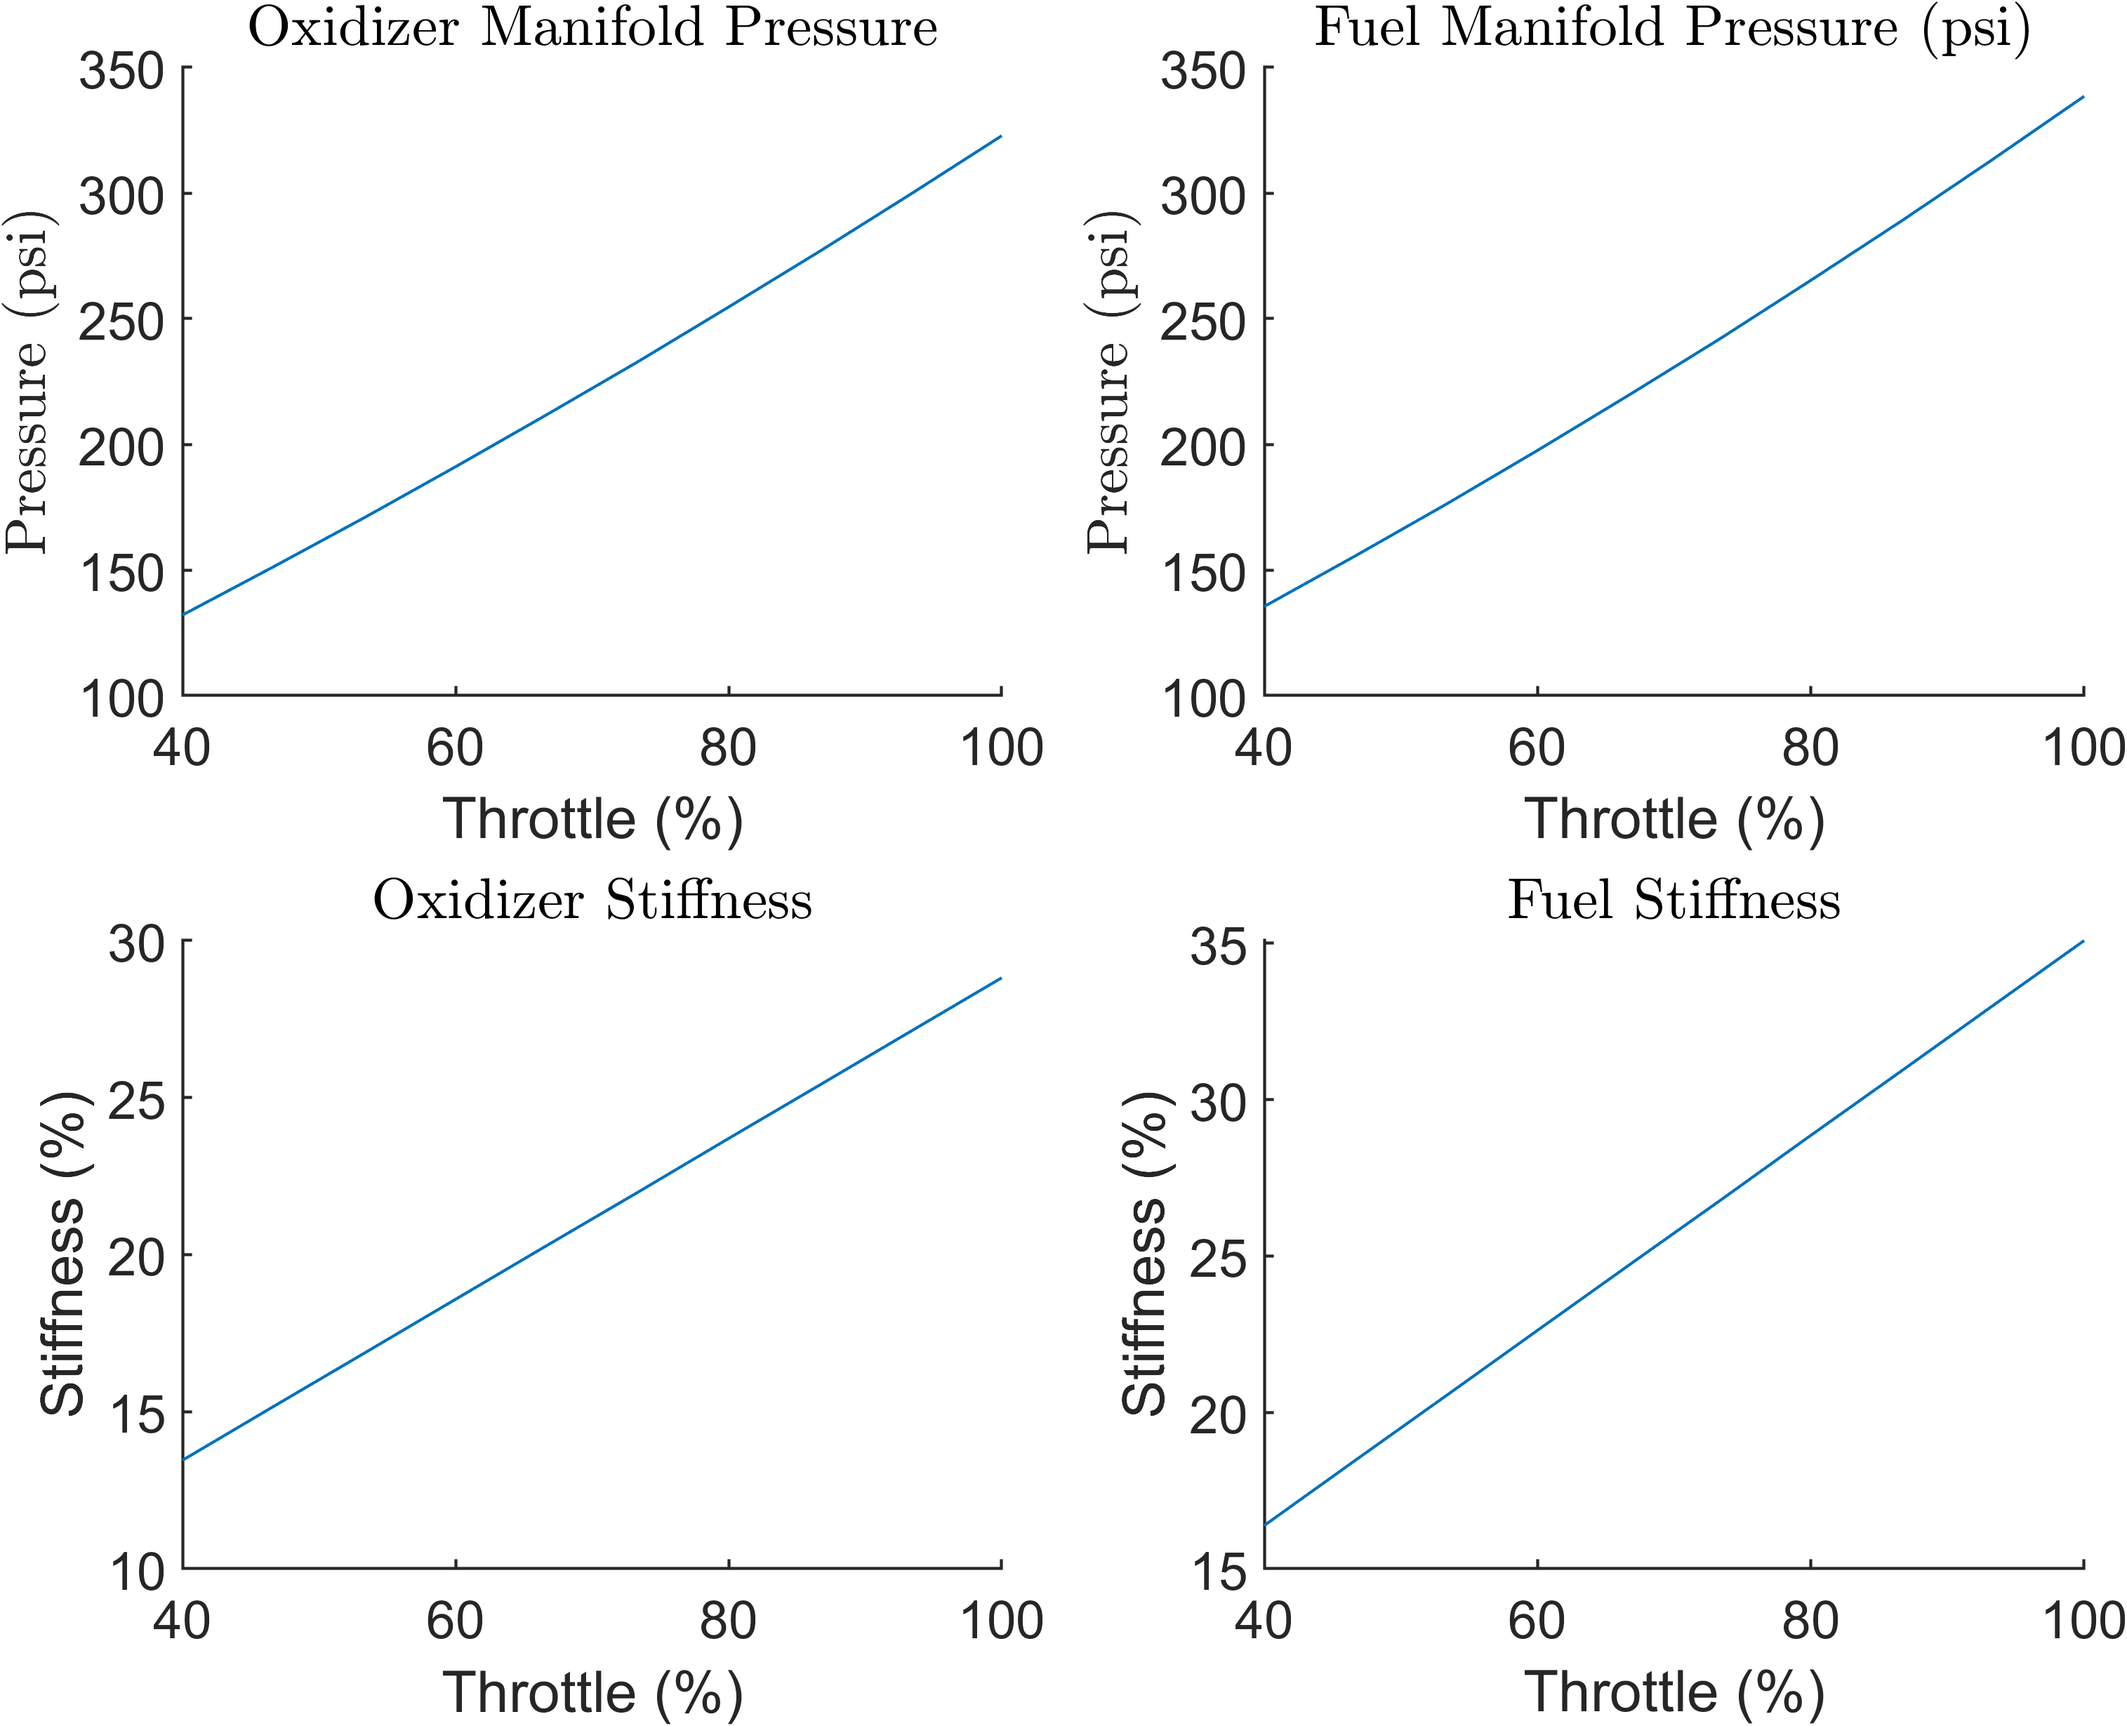
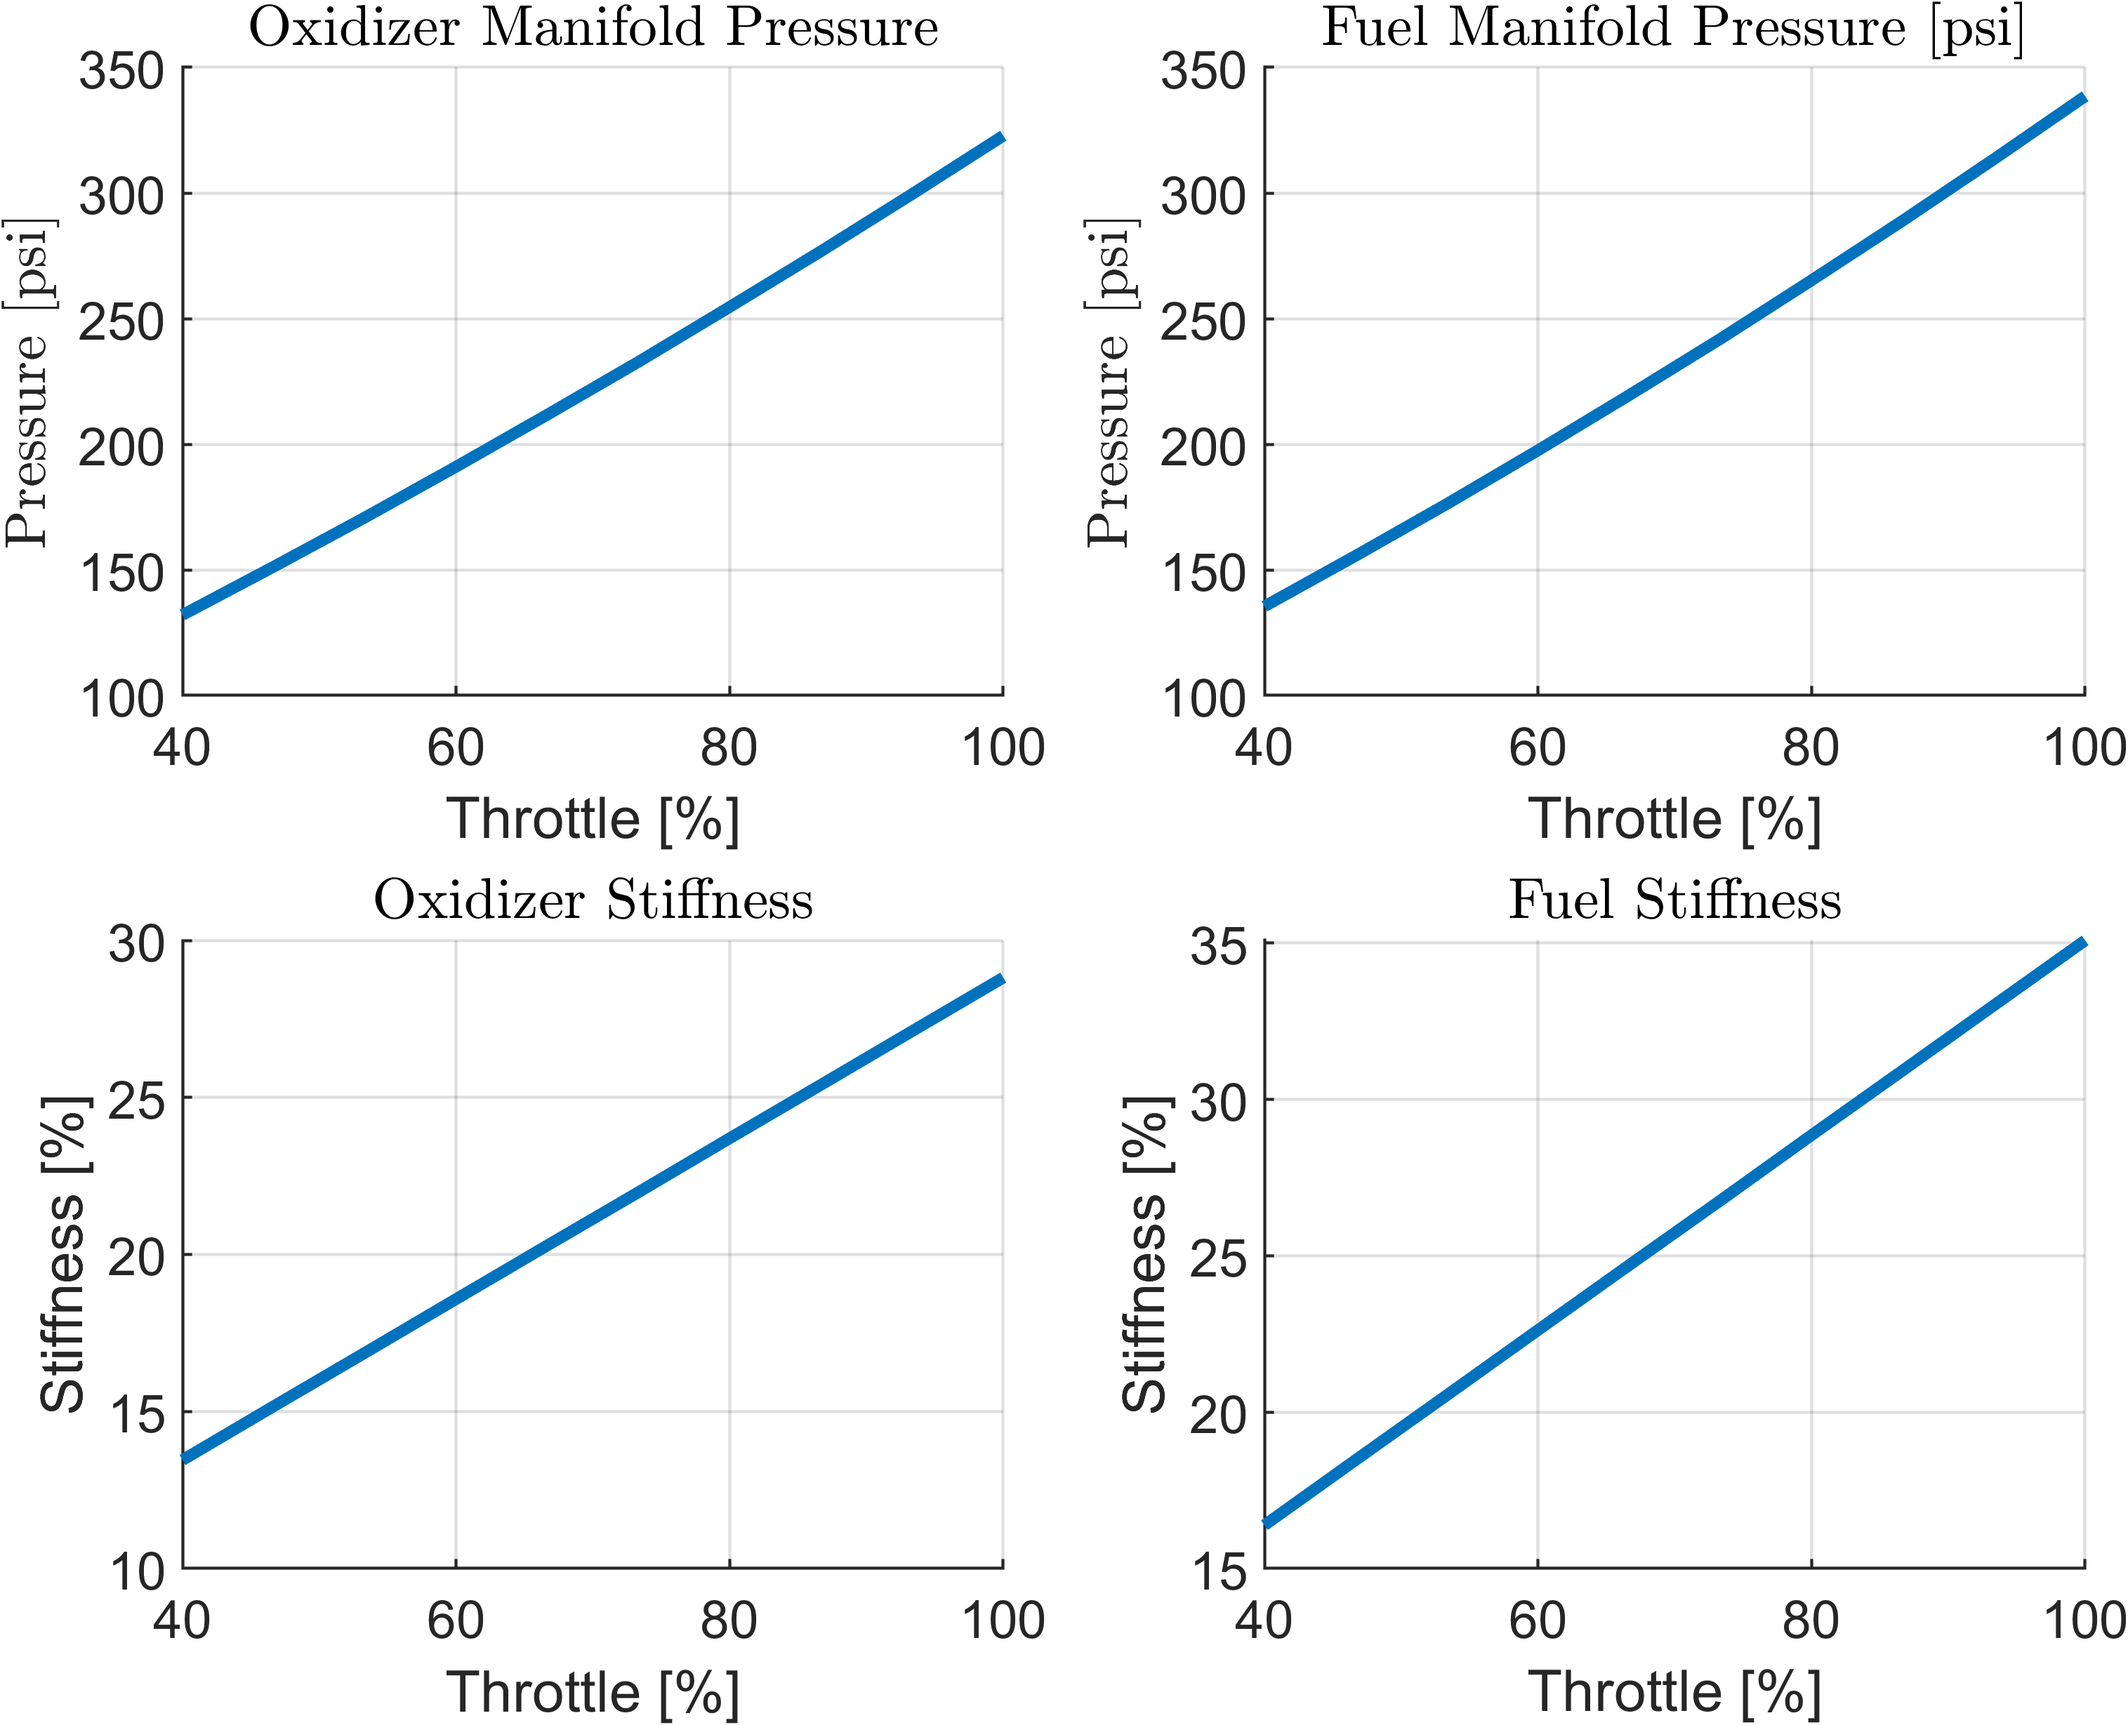
formatting

diff --git a/Throttle/Throttle_Full_range.m b/Throttle/Throttle_Full_range.m
@@ -126,6 +126,7 @@ for i=1:length(throttle_pct)
 
 end
 
+[cstar_min, ~, ~, ~, ~, ~, ~, Tc_ns_min, ~, ~, ~, ~, ~, ~, ~] = throttleCEA(Pc_throttle_actual(1), Pe_throttle(1), fuel, fuel_weight, fuel_temp, oxidizer, oxidizer_temp, OF, 0, 0, 1, 1, 0, CEA_input_name);
 
 %% FIGURES
 
@@ -134,41 +135,45 @@ f=figure('Name', 'Throttle Chamber Results');
 
 subplot(2,2,1)
 hold on 
+grid on 
 set(gcf,'color','w')
 hAxes.TickLabelInterpreter = 'latex';
-plot(throttle_pct*100, throttle_thrust_actual * 0.224809)
-title("Thrust",'Interpreter','latex')
-xlabel("Throttle (%)",'Interpreter','latex')
-ylabel("Thrust (lbf)",'Interpreter','latex')
+plot(throttle_pct*100, throttle_thrust_actual * 0.224809, "Linewidth", 2)
+title("Thrust","Interpreter","latex")
+xlabel("Throttle (%)","Interpreter","latex")
+ylabel("Thrust (lbf)","Interpreter","latex")
 
 subplot(2,2,2)
 hold on 
+grid on 
 set(gcf,'color','w')
 hAxes.TickLabelInterpreter = 'latex';
-plot(throttle_pct*100, Pe_throttle)
-plot(throttle_pct*100,P_sep)
+plot(throttle_pct*100, Pe_throttle, "Linewidth", 2)
+plot(throttle_pct*100,P_sep, "--", "Linewidth", 2)
 legend('$$P_{e}$$','$$P_{sep}$$','Interpreter','latex','Location','northwest')
-title("Exit Pressure",'Interpreter','latex')
-xlabel("Throttle (%)",'Interpreter','latex')
-ylabel("Pressure (Psi)",'Interpreter','latex')
+title("Exit Pressure","Interpreter","latex")
+xlabel("Throttle (%)","Interpreter","latex")
+ylabel("Pressure (Psi)","Interpreter","latex")
 
 subplot(2,2,3)
 hold on 
+grid on 
 set(gcf,'color','w')
 hAxes.TickLabelInterpreter = 'latex';
-plot(throttle_pct*100, Pc_throttle_actual)
-title("Chamber Pressure",'Interpreter','latex')
-xlabel("Throttle (%)",'Interpreter','latex')
-ylabel("Pressure (psi)",'Interpreter','latex')
+plot(throttle_pct*100, Pc_throttle_actual, "Linewidth", 2)
+title("Chamber Pressure","Interpreter","latex")
+xlabel("Throttle [%]","Interpreter","latex")
+ylabel("Pressure [psi]","Interpreter","latex")
 
 subplot(2,2,4)
 hold on 
+grid on 
 set(gcf,'color','w')
 hAxes.TickLabelInterpreter = 'latex';
-plot(throttle_pct*100, isp_throttle)
-title("Isp",'Interpreter','latex')
-xlabel("Throttle (%)",'Interpreter','latex')
-ylabel("Isp (s)",'Interpreter','latex')
+plot(throttle_pct*100, isp_throttle, "Linewidth", 2)
+title("Isp","Interpreter","latex")
+xlabel("Throttle [%]","Interpreter","latex")
+ylabel("Isp [s]","Interpreter","latex")
 
 exportgraphics(f,'Chamber_throttle.png','Resolution',600)
 
@@ -177,71 +182,78 @@ f=figure('Name', 'Injector Throttle Results');
 
 subplot(2,2,1)
 hold on 
+grid on 
 set(gcf,'color','w')
 hAxes.TickLabelInterpreter = 'latex';
-plot(throttle_pct*100, P_OX_manifold)
+plot(throttle_pct*100, P_OX_manifold, "Linewidth", 2)
 title("Oxidizer Manifold Pressure",'Interpreter','latex')
-xlabel("Throttle (%)",'Interpreter','latex')
-ylabel("Pressure (psi)",'Interpreter','latex')
+xlabel("Throttle [%]","Interpreter","latex")
+ylabel("Pressure [psi]","Interpreter","latex")
 
 subplot(2,2,2)
 hold on 
+grid on 
 set(gcf,'color','w')
 hAxes.TickLabelInterpreter = 'latex';
-plot(throttle_pct*100, P_FUEL_manifold)
-title("Fuel Manifold Pressure (psi)",'Interpreter','latex')
-xlabel("Throttle (%)",'Interpreter','latex')
-ylabel("Pressure (psi)",'Interpreter','latex')
+plot(throttle_pct*100, P_FUEL_manifold, "Linewidth", 2)
+title("Fuel Manifold Pressure [psi]","Interpreter","latex")
+xlabel("Throttle [%]","Interpreter","latex")
+ylabel("Pressure [psi]","Interpreter","latex")
 
 subplot(2,2,3)
 hold on 
+grid on 
 set(gcf,'color','w')
 hAxes.TickLabelInterpreter = 'latex';
-plot(throttle_pct*100, OX_stiffness*100)
-title("Oxidizer Stiffness",'Interpreter','latex')
-xlabel("Throttle (%)",'Interpreter','latex')
-ylabel("Stiffness (%)",'Interpreter','latex')
+plot(throttle_pct*100, OX_stiffness*100, "Linewidth", 2)
+title("Oxidizer Stiffness","Interpreter","latex")
+xlabel("Throttle [%]","Interpreter","latex")
+ylabel("Stiffness [%]","Interpreter","latex")
 
 subplot(2,2,4)
 hold on 
+grid on 
 set(gcf,'color','w')
 hAxes.TickLabelInterpreter = 'latex';
-plot(throttle_pct*100, FUEL_stiffness*100)
-title("Fuel Stiffness",'Interpreter','latex')
-xlabel("Throttle (%)",'Interpreter','latex')
-ylabel("Stiffness (%)",'Interpreter','latex')
+plot(throttle_pct*100, FUEL_stiffness*100, "Linewidth", 2)
+title("Fuel Stiffness","Interpreter","latex")
+xlabel("Throttle [%]","Interpreter","latex")
+ylabel("Stiffness [%]","Interpreter","latex")
 
 exportgraphics(f,'Injector_throttle.png','Resolution',600)
 
-% Massflows
+% Mass flows
 f=figure('Name', 'Throttle Massflows');
 
 subplot(2,2,[1 2])
 hold on 
+grid on
 set(gcf,'color','w')
 hAxes.TickLabelInterpreter = 'latex';
-plot(throttle_pct*100, mdot_throttle_actual)
-title("Total Mass Flow Rate",'Interpreter','latex')
-xlabel("Throttle (%)",'Interpreter','latex')
-ylabel("Mass Flow (lbm/s)",'Interpreter','latex')
+plot(throttle_pct*100, mdot_throttle_actual, "Linewidth", 2)
+title("Total Mass Flow Rate","Interpreter","latex")
+ylabel("Mass Flow [lbm/s]","Interpreter","latex")
+xlabel("Throttle [%]","Interpreter","latex")
 
 subplot(2,2,3)
 hold on 
+grid on 
 set(gcf,'color','w')
 hAxes.TickLabelInterpreter = 'latex';
-plot(throttle_pct*100, fuel_massflow_rate)
-title("Fuel Massflow Rate",'Interpreter','latex')
-xlabel("Throttle (%)",'Interpreter','latex')
-ylabel("Mass Flow (lbm/s)",'Interpreter','latex')
+plot(throttle_pct*100, fuel_massflow_rate, "Linewidth", 2)
+title("Fuel Massflow Rate","Interpreter","latex")
+ylabel("Mass Flow [lbm/s]","Interpreter","latex")
+xlabel("Throttle [%]","Interpreter","latex")
 
 subplot(2,2,4)
 hold on 
+grid on 
 set(gcf,'color','w')
 hAxes.TickLabelInterpreter = 'latex';
-plot(throttle_pct*100, ox_massflow_rate)
-title("Oxidizer Massflow Rate",'Interpreter','latex')
-xlabel("Throttle (%)",'Interpreter','latex')
-ylabel("Mass Flow (lbm/s)",'Interpreter','latex')
+plot(throttle_pct*100, ox_massflow_rate, "Linewidth", 2)
+title("Oxidizer Massflow Rate","Interpreter","latex")
+ylabel("Mass Flow [lbm/s]","Interpreter","latex")
+xlabel("Throttle [%]","Interpreter","latex")
 exportgraphics(f,'MassFlow_throttle.png','Resolution',600)
 
 fclose all;

diff --git a/Throttle/Throttle CEA/throttleCEA.m b/Throttle/Throttle CEA/throttleCEA.m
@@ -3,7 +3,7 @@
 % First Created: 7/17/2022
 % Last Updated: 
 
-function [c_star,cf, isp, exp_ratio, M, gamma, P, T, rho, mu, Pr, Mw, k, son, cp] = throttleCEA(P_c, P_e, fuel, fuel_weight, fuel_temp, oxidizer, oxidizer_temp, OF, sub, sup, nozzle_pos, imperial_inputs, imperial_ouputs, file_name)
+function [c_star, cf, isp, exp_ratio, M, gamma, P, T, rho, mu, Pr, Mw, k, son, cp] = throttleCEA(P_c, P_e, fuel, fuel_weight, fuel_temp, oxidizer, oxidizer_temp, OF, sub, sup, nozzle_pos, imperial_inputs, imperial_ouputs, file_name)
 
 %{ 
 Description: Sends engine performance and fuel properties to NASA CEA where
